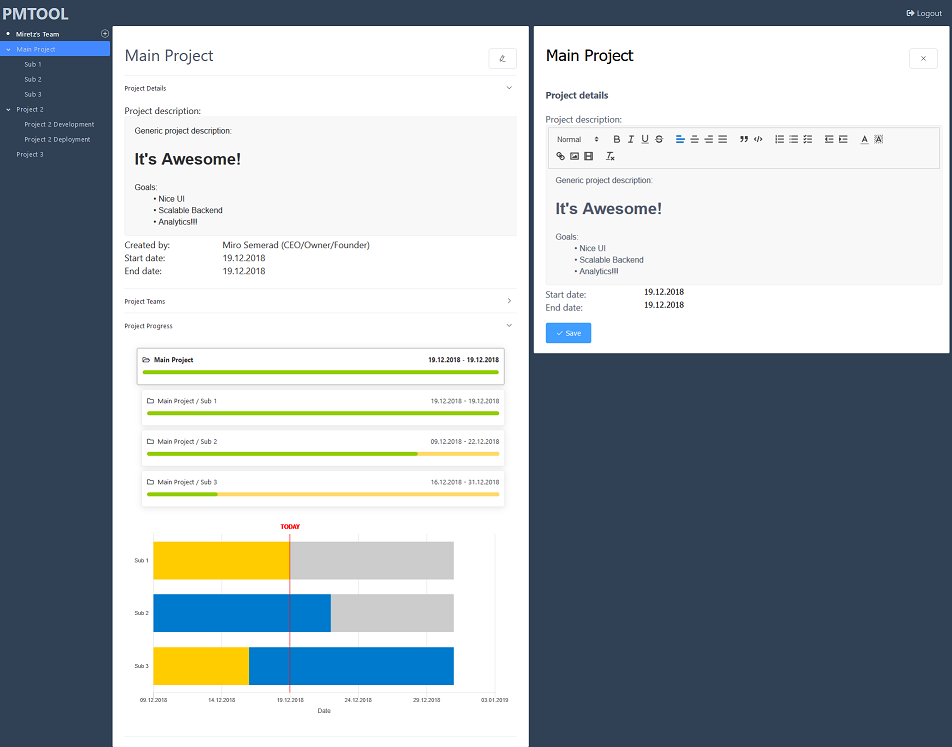
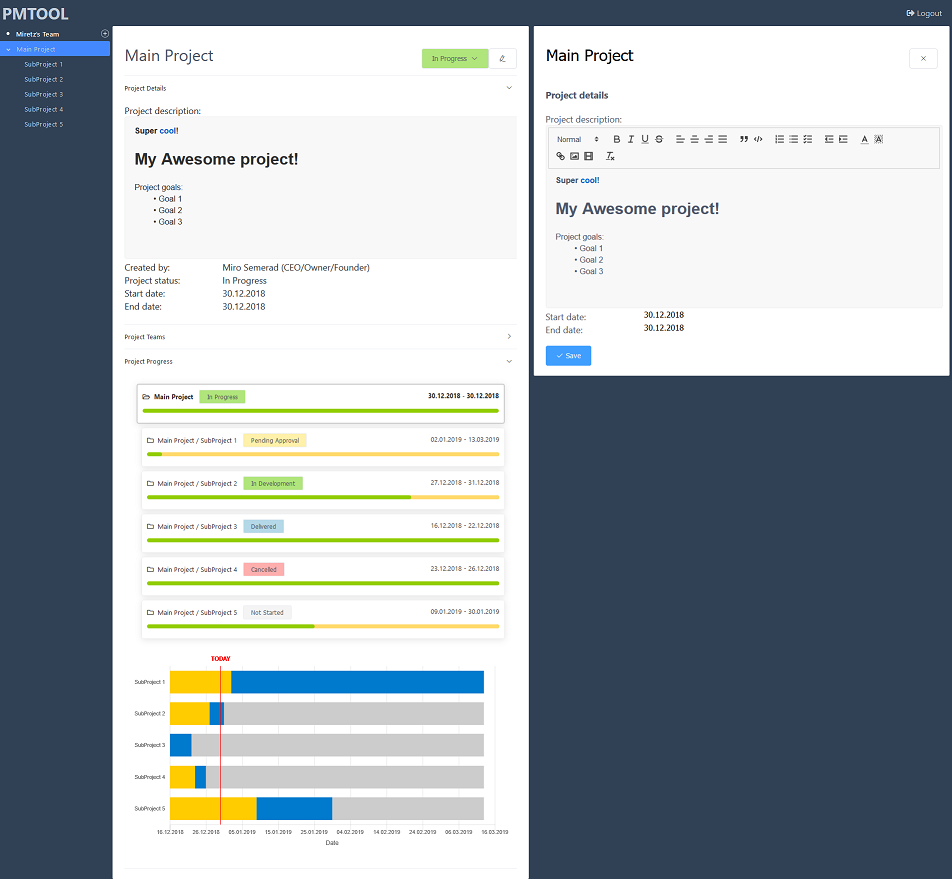
Project status dropdown

Changed region(s): [[0.0, 0.0, 1.0, 0.9545], [0.792, 0.1539, 0.9443, 0.2155]]

diff --git a/client/src/views/Folder.vue b/client/src/views/Folder.vue
@@ -14,6 +14,22 @@
             </div>
             {{folder.name}}
             <div class="float-right" v-if="!isTeam(folder) && subRoute==='folder'">
+              <!-- Project status dropdown -->
+              <el-dropdown @command="handleStatusChange">
+                <el-button type="plain" v-bind:style="{ backgroundColor: status.color }">
+                  {{status.name}}
+                  <i class="el-icon-arrow-down el-icon--right"/>
+                </el-button>
+                <el-dropdown-menu slot="dropdown">
+                  <el-dropdown-item
+                    v-for="status in getStatuses"
+                    :key="status.id"
+                    :command="status.id"
+                    :style="{ 'background-color': status.color}"
+                  >{{status.name}}</el-dropdown-item>
+                </el-dropdown-menu>
+              </el-dropdown>
+              <!-- Edit button -->
               <el-button @click="toggleEditor" icon="el-icon-edit"></el-button>
             </div>
           </div>
@@ -42,6 +58,14 @@
                   </el-col>
                   <el-col :span="18">
                     <div class="header-title">{{createdBy}}</div>
+                  </el-col>
+                </el-row>
+                <el-row>
+                  <el-col :span="6">
+                    <div class="header-title">Project status:</div>
+                  </el-col>
+                  <el-col :span="18">
+                    <div class="header-title">{{folder.status.name}}</div>
                   </el-col>
                 </el-row>
                 <el-row>
@@ -79,7 +103,12 @@
 </template>
 <script>
 import { mapState } from "vuex";
-import { GetFolder, GetUserById } from "../constants/query.gql";
+import {
+  GetFolder,
+  GetUserById,
+  GetStatuses,
+  UpdateFolder
+} from "../constants/query.gql";
 import FolderDetail from "./FolderDetail.vue";
 import { VueEditor } from "vue2-editor";
 import FolderGantt from "@/components/FolderGantt";
@@ -116,7 +145,9 @@ export default {
       editorSettings: {
         modules: { toolbar: false }
       },
-      activeNames: ["progress"]
+      activeNames: ["progress"],
+      status: {},
+      getStatuses: []
     };
   },
   apollo: {
@@ -135,6 +166,7 @@ export default {
         if (this.isTeam) {
           document.title = `${this.folder.name} - pmtool`;
         }
+        this.status = this.folder.status;
       }
     },
     getUserById: {
@@ -149,6 +181,9 @@ export default {
         const user = getUserById;
         this.createdBy = `${user.name} (${user.jobTitle})`;
       }
+    },
+    getStatuses: {
+      query: GetStatuses
     }
   },
   methods: {
@@ -164,6 +199,37 @@ export default {
         }
       }
       localStorage.setItem("show-editor", JSON.stringify(this.showEditor));
+    },
+    handleStatusChange(id) {
+      const foundStatus = this.getStatuses.filter(x => x.id === id)[0];
+      if (foundStatus == null) {
+        this.$message.error("Status not found.");
+      }
+      this.status = foundStatus;
+      this.$apollo
+        .mutate({
+          mutation: UpdateFolder,
+          variables: {
+            id: this.folder.id,
+            input: {
+              status: {
+                id: foundStatus.id,
+                name: foundStatus.name,
+                color: foundStatus.color
+              }
+            }
+          }
+        })
+        .then(() => {
+          this.$message({
+            message: "Status changed to: " + this.status.name,
+            type: "success"
+          });
+        })
+        .catch(error => {
+          this.$message.error("Error while saving.");
+          console.log(error);
+        });
     }
   }
 };

diff --git a/server/src/resolvers.js b/server/src/resolvers.js
@@ -8,31 +8,11 @@ const ObjectId = mongoose.Types.ObjectId;
 const { User, Team, Folder, Group } = require("./models");
 const JWT_SECRET = process.env.JWT_SECRET;
 const { getUserId } = require("./utils");
+const { projectStatuses, avatarColors } = require("./settings");
 
 function randomChoice(arr) {
   return arr[Math.floor(arr.length * Math.random())];
 }
-
-const avatarColors = [
-  "D81B60",
-  "F06292",
-  "F48FB1",
-  "FFB74D",
-  "FF9800",
-  "F57C00",
-  "00897B",
-  "4DB6AC",
-  "80CBC4",
-  "80DEEA",
-  "4DD0E1",
-  "00ACC1",
-  "9FA8DA",
-  "7986CB",
-  "3949AB",
-  "8E24AA",
-  "BA68C8",
-  "CE93D8"
-];
 
 const nodeMailer = require("nodemailer");
 const { welcomeEmail } = require("./emails");
@@ -93,6 +73,10 @@ const resolvers = {
       const folder = await Folder.findById(id).populate("shareWith");
       const teams = folder.shareWith.filter(x => x.kind === "Team");
       return await teams.map(x => Team.findById(x.item));
+    },
+    getStatuses(_, {}, context) {
+      const userId = getUserId(context);
+      return projectStatuses;
     }
   },
   Mutation: {
@@ -161,13 +145,14 @@ const resolvers = {
         shareWith: parent
           ? []
           : [
-              {
-                kind: "Team",
-                item: (await User.findById(userId)).team
-              }
-            ],
+            {
+              kind: "Team",
+              item: (await User.findById(userId)).team
+            }
+          ],
         startDate: moment().startOf("day").toDate(),
         endDate: moment().startOf("day").toDate(),
+        status: projectStatuses[0],
         createdBy: userId
       });
       return await Folder.findById(folder.id).populate("shareWith.item");

diff --git a/server/src/settings.js b/server/src/settings.js
@@ -1,0 +1,53 @@
+const projectStatuses = [
+
+    { id: "backlog", name: "Backlog", color: "#f4f4f5" },
+    { id: "inactive", name: "Inactive", color: "#f4f4f5" },
+    { id: "notStarted", name: "Not Started", color: "#f4f4f5" },
+    { id: "onHold", name: "On Hold", color: "#f4f4f5" },
+
+    { id: "pendingaApproval", name: "Pending Approval", color: "#fffae6" },
+    { id: "scheduled", name: "Scheduled", color: "#fffae6" },
+    { id: "ready", name: "Ready", color: "#fffae6" },
+    { id: "approved", name: "Approved", color: "#fffae6" },
+
+    { id: "active", name: "Active", color: "#d7f3bf" },
+    { id: "inDevelopment", name: "In Development", color: "#d7f3bf" },
+    { id: "inProgress", name: "In Progress", color: "#d7f3bf" },
+    { id: "inTesting", name: "In Testing", color: "#d7f3bf" },
+
+    { id: "late", name: "Late", color: "#ffcccc" },
+    { id: "blocked", name: "Blocked", color: "#ffcccc" },
+    { id: "cancelled", name: "Cancelled", color: "#ffcccc" },
+    { id: "rejected", name: "Rejected", color: "#ffcccc" },
+
+    { id: "live", name: "Live", color: "#d8ebf3" },
+    { id: "completed", name: "Completed", color: "#d8ebf3" },
+    { id: "delivered", name: "Delivered", color: "#d8ebf3" },
+    { id: "shipped", name: "Shipped", color: "#d8ebf3" },
+];
+
+const avatarColors = [
+    "D81B60",
+    "F06292",
+    "F48FB1",
+    "FFB74D",
+    "FF9800",
+    "F57C00",
+    "00897B",
+    "4DB6AC",
+    "80CBC4",
+    "80DEEA",
+    "4DD0E1",
+    "00ACC1",
+    "9FA8DA",
+    "7986CB",
+    "3949AB",
+    "8E24AA",
+    "BA68C8",
+    "CE93D8"
+];
+
+module.exports = {
+    projectStatuses,
+    avatarColors
+}

diff --git a/client/src/components/FolderGantt.vue b/client/src/components/FolderGantt.vue
@@ -9,6 +9,14 @@
                 <div>
                   <i class="far fa-folder-open"></i>
                   &nbsp;{{model.name}}
+                  &nbsp;
+                  <el-button
+                    v-if="model.status != null"
+                    type="plain"
+                    v-bind:style="{ backgroundColor: model.status.color, color: '#555'}"
+                    size="mini"
+                    disabled
+                  >{{model.status.name}}</el-button>
                 </div>
               </el-col>
               <el-col :span="12">
@@ -46,6 +54,13 @@
                 <div>
                   <i class="far fa-folder"></i>
                   &nbsp;{{model.name}} / {{f.name}}
+                  &nbsp;
+                  <el-button
+                    type="plain"
+                    v-bind:style="{ backgroundColor: f.status.color, color: '#555'}"
+                    size="mini"
+                    disabled
+                  >{{f.status.name}}</el-button>
                 </div>
               </el-col>
               <el-col :span="12">

diff --git a/server/src/models.js b/server/src/models.js
@@ -1,5 +1,4 @@
 const mongoose = require("mongoose")
-const moment = require('moment')
 const Schema = mongoose.Schema
 const ObjectId = Schema.Types.ObjectId
 
@@ -17,7 +16,8 @@ const Folder = buildModel('Folder', {
     parent: { type: ObjectId, ref: 'Folder' },
     startDate: Date,
     endDate: Date,
-    createdBy: String
+    createdBy: String,
+    status: {}
 })
 
 module.exports.Folder = Folder
